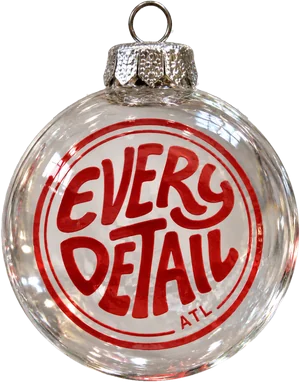
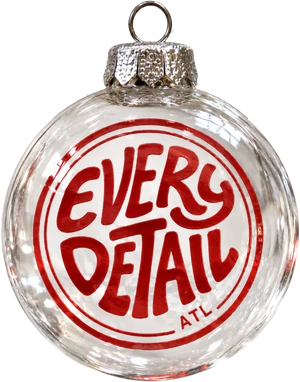
Christmas ornaments: see-through glass, under hero shade, photo grade + parallax
Claude-Session: https://claude.ai/code/session_01DifBkPSfP7E7jtjJjjRAjG

diff --git a/src/app/globals.css b/src/app/globals.css
@@ -9218,10 +9218,11 @@ html.ed-motion [data-reveal="stagger"][data-revealed="true"]>*{animation:ed-reve
 @keyframes ed-dot-pulse{0%{box-shadow:0 0 0 0 rgba(213,104,101,.5)}100%{box-shadow:0 0 0 12px rgba(213,104,101,0)}}
 
 /* Christmas hero ornaments — hang from the top-left of the homepage hero and scroll away with it. */
-.v29-hero .xmas-ornaments{position:absolute;top:0;left:0;right:0;height:0;z-index:-1;pointer-events:none}
+.v29-hero .xmas-ornaments{position:absolute;top:0;left:0;right:0;height:0;z-index:-2;pointer-events:none;transform:translate3d(var(--v29-x8),var(--v29-y5),0);will-change:transform}
 .v29-hero .xmas-ornament{position:absolute;top:0;display:flex;flex-direction:column;align-items:center;transform-origin:50% 0;animation:xmas-sway 6s ease-in-out infinite alternate}
-.v29-hero .xmas-ornament i{display:block;flex:none;width:1.5px;background:linear-gradient(180deg,rgba(235,235,235,.25),rgba(235,235,235,.85));box-shadow:0 0 3px rgba(0,0,0,.35)}
-.v29-hero .xmas-ornament img{display:block;width:100%!important;height:auto!important;margin-top:-2px;filter:drop-shadow(0 14px 18px rgba(0,0,0,.4))}
+.v29-hero .xmas-ornament i{display:block;flex:none;width:1px;background:linear-gradient(180deg,rgba(225,218,204,.3),rgba(225,218,204,.8))}
+/* Same grade as the hero photo, a touch soft so it sits in the photo's focus plane instead of on top of it. */
+.v29-hero .xmas-ornament img{display:block;width:100%!important;height:auto!important;margin-top:-2px;filter:brightness(1.06) saturate(.95) contrast(1.04) sepia(.04) blur(.2px) drop-shadow(0 0 10px rgba(255,236,200,.12))}
 .v29-hero .xmas-ornament--a{left:clamp(34px,5.4vw,96px);width:clamp(70px,6.4vw,104px)}
 .v29-hero .xmas-ornament--a i{height:clamp(96px,11vh,128px)}
 .v29-hero .xmas-ornament--b{left:calc(clamp(34px,5.4vw,96px) + clamp(84px,7.8vw,124px));width:clamp(56px,5vw,82px);animation-duration:7.4s;animation-delay:-2.6s}

diff --git a/src/app/page.tsx b/src/app/page.tsx
@@ -56,13 +56,13 @@ export default async function Home() {
 
       <section className="v29-hero" data-header-tone="brand" data-v29-scene="hero" aria-labelledby="v29-hero-title">
         <div className="v29-hero-photo" data-v29-depth><Photo id="hero" sizes="100vw" fill priority quality={55} /></div>
-        <div className="v29-hero-shade" aria-hidden="true" />
-        <div className="v30-hero-focus" aria-hidden="true" />
-        {/* Christmas: two ornaments hanging from the top-left. Lives inside the hero so it scrolls away with it. */}
+        {/* Christmas: two ornaments hanging from the top-left. Sits under the hero shade so it takes the same light; scrolls away with the hero. */}
         <div className="xmas-ornaments" aria-hidden="true">
           <span className="xmas-ornament xmas-ornament--a"><i /><Image src="/images/xmas-ornament.webp" alt="" width={300} height={382} loading="eager" /></span>
           <span className="xmas-ornament xmas-ornament--b"><i /><Image src="/images/xmas-ornament.webp" alt="" width={300} height={382} loading="eager" /></span>
         </div>
+        <div className="v29-hero-shade" aria-hidden="true" />
+        <div className="v30-hero-focus" aria-hidden="true" />
         <div className="v29-shell v29-hero-inner">
           <PersonalizedHeroTitle />
           <HeroVehicleField />
